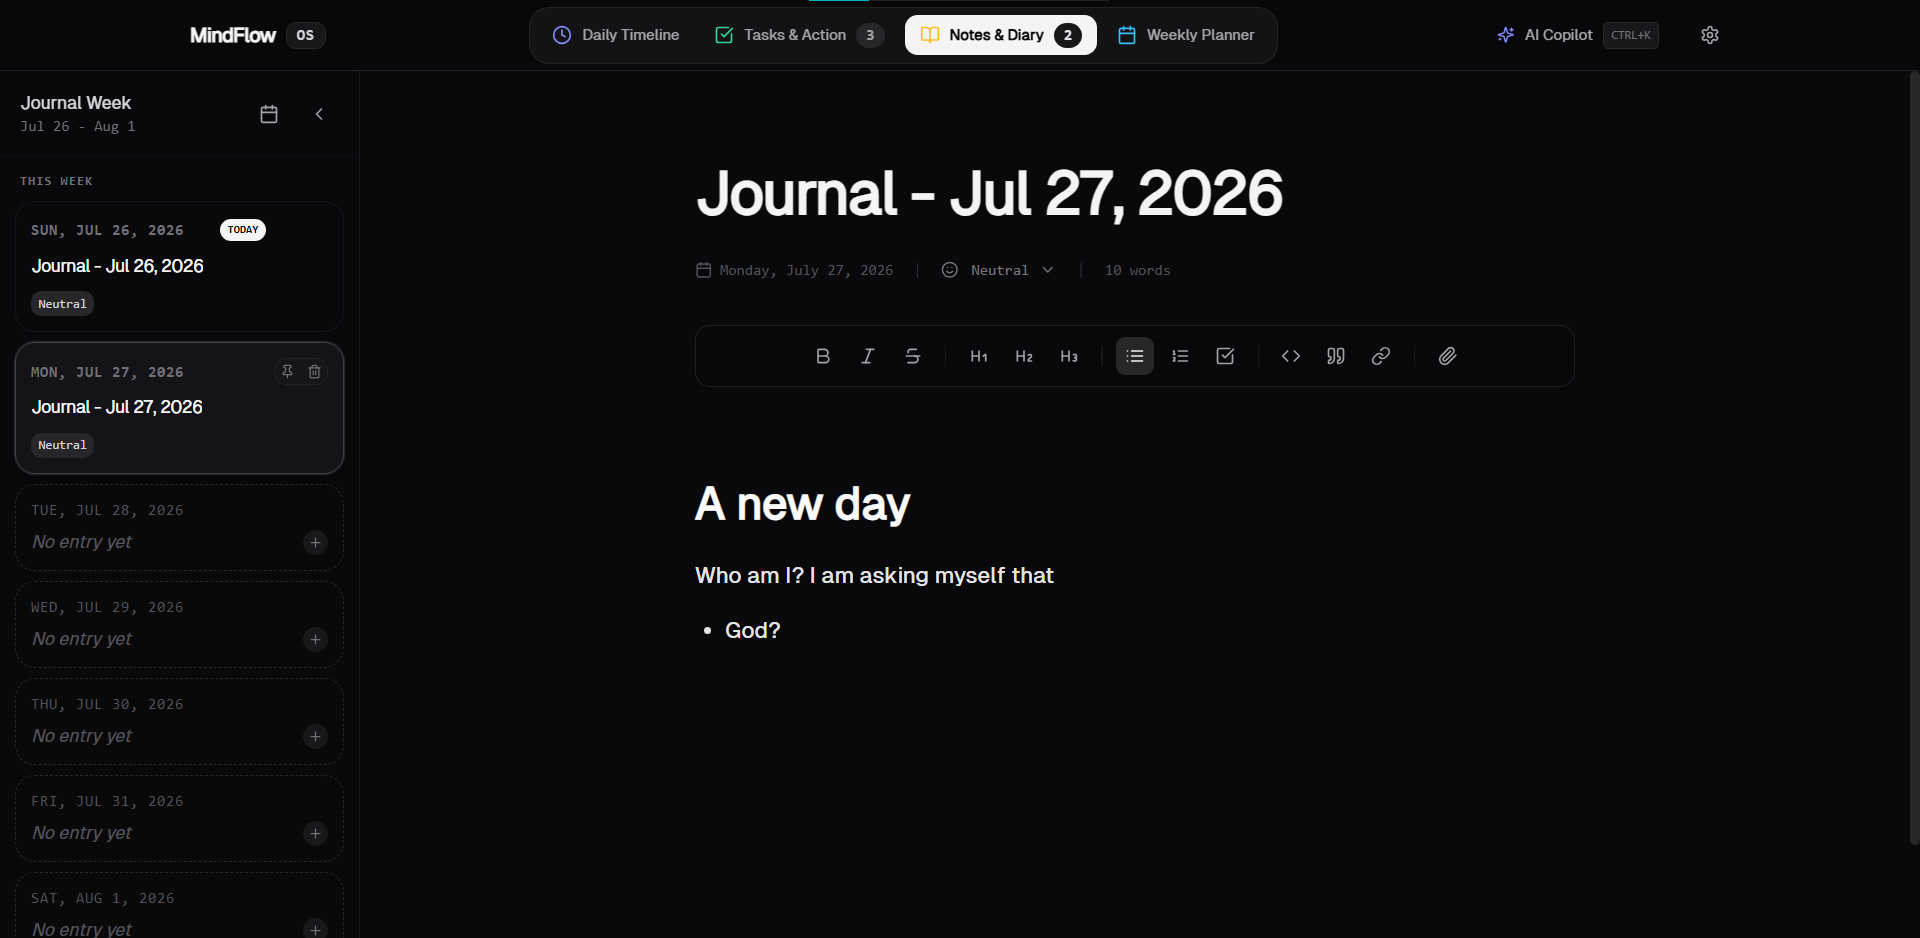
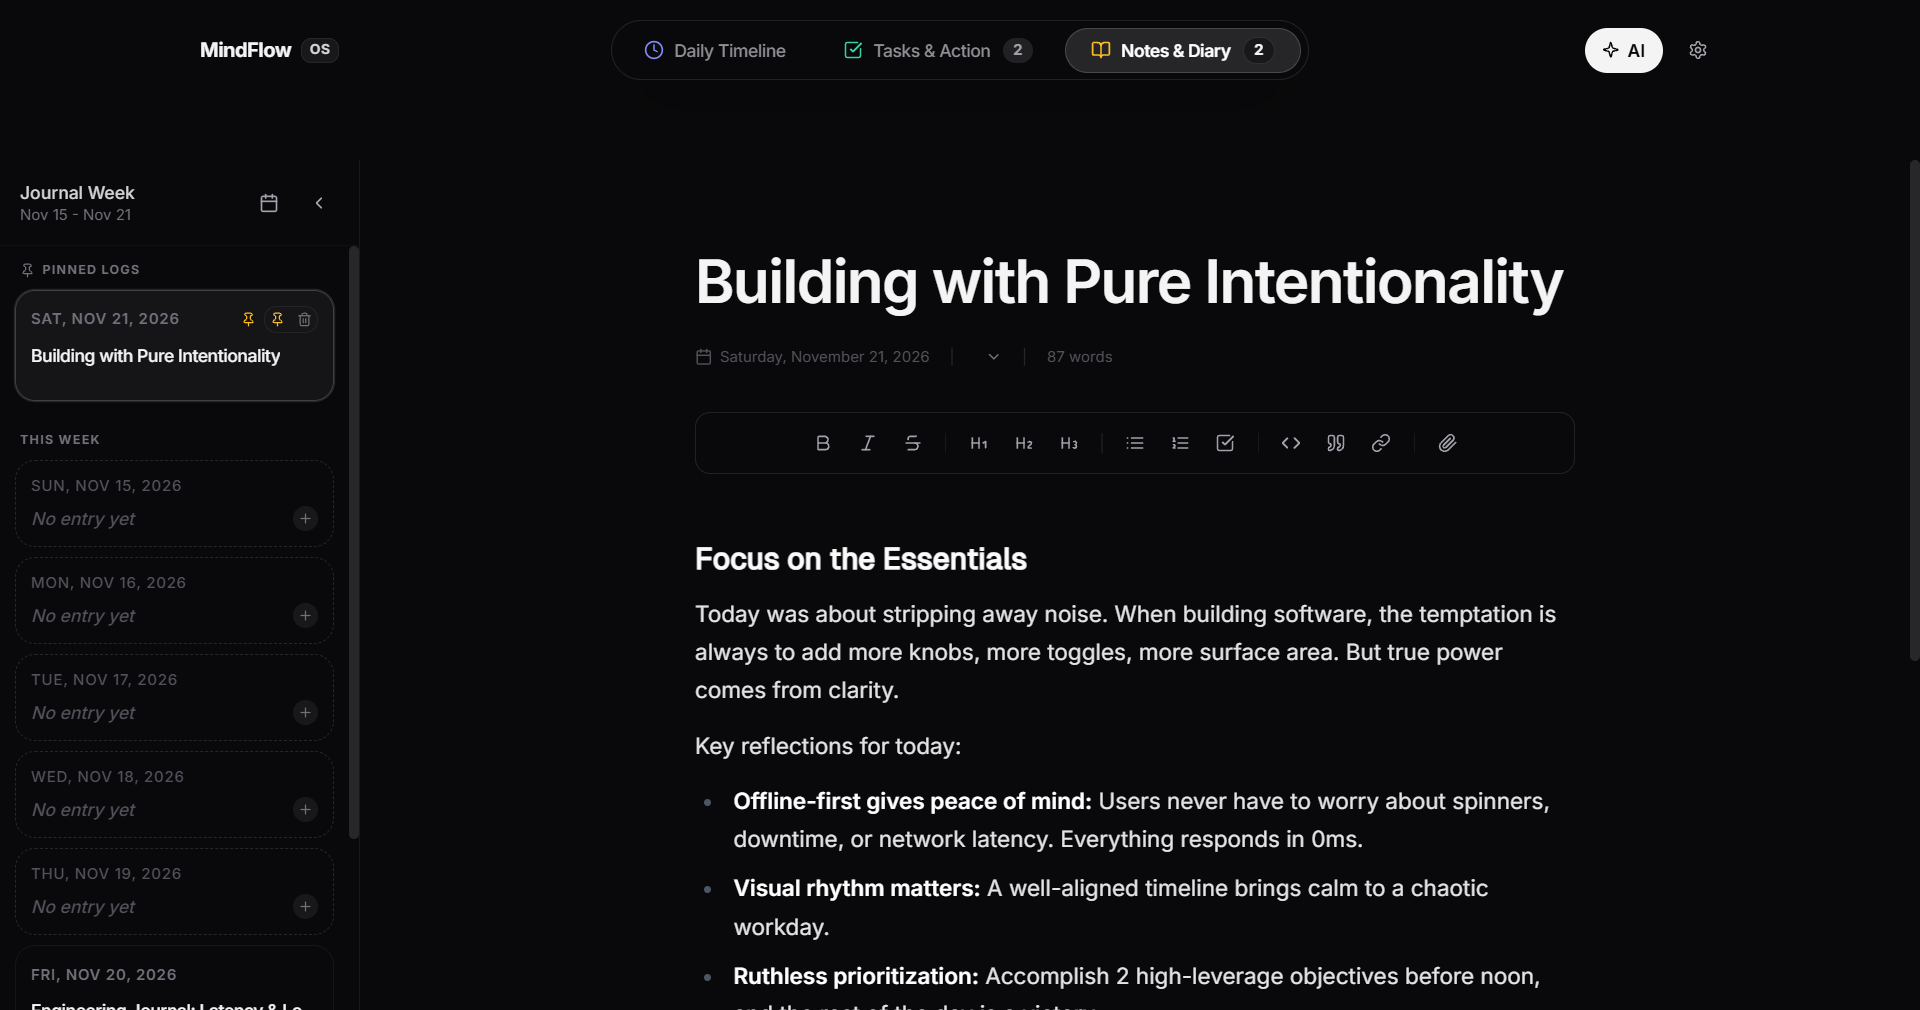
docs: update screenshots with realistic sample data and latest UI

diff --git a/src/services/storage.ts b/src/services/storage.ts
@@ -16,31 +16,114 @@ const DEFAULT_SETTINGS: AppSettings = {
   enableAiAutoEdit: true,
 };
 
-// Single clean minimalist initial task
+// Clean, professional sample tasks
 const INITIAL_TASKS: Task[] = [
   {
-    id: 'task-clean-1',
-    title: 'Focus on one important objective today',
-    description: 'Keep things peaceful, steady, and intentional.',
+    id: 'task-sample-1',
+    title: 'Review Q4 product roadmap & sync with engineering team',
+    description: 'Align with design on badge contrast tokens and ensure offline sync specs are finalized.',
     category: 'Work',
-    priority: 'medium',
+    priority: 'high',
     status: 'todo',
     scheduledDay: 'Mon',
+    time: '08:00 AM',
+    durationHours: 1,
+    attachments: [{ id: 'att-1', type: 'file', url: '#', name: 'Roadmap_Spec_v2.pdf', size: 2400000, createdAt: new Date().toISOString() }],
+    createdAt: new Date().toISOString(),
+  },
+  {
+    id: 'task-sample-2',
+    title: 'Deep work: Implement zero-knowledge encryption pipeline for local backups',
+    description: 'AES-GCM encryption with Argon2 key derivation. Zero plaintext leaks to disk.',
+    category: 'Work',
+    priority: 'urgent',
+    status: 'todo',
+    scheduledDay: 'Mon',
+    time: '09:00 AM',
+    durationHours: 1,
+    attachments: [],
+    createdAt: new Date().toISOString(),
+  },
+  {
+    id: 'task-sample-3',
+    title: 'Founder pitch deck review with lead angel investors and technical advisors for Seed Round extension',
+    description: 'Prepare 10-slide deck focusing on user retention, offline architecture, and developer adoption metrics.',
+    category: 'Ideas',
+    priority: 'high',
+    status: 'todo',
+    scheduledDay: 'Mon',
+    time: '10:00 AM',
+    durationHours: 1,
+    attachments: [{ id: 'att-2', type: 'file', url: '#', name: 'Seed_Deck_Nov2026.pdf', size: 8100000, createdAt: new Date().toISOString() }],
+    createdAt: new Date().toISOString(),
+  },
+  {
+    id: 'task-sample-4',
+    title: 'Architecture review: Optimize SQLite query planner and reduce cold start time',
+    description: 'Ensure vacuuming and index lookups stay under 12ms even on 100k+ records.',
+    category: 'Work',
+    priority: 'medium',
+    status: 'half_completed',
+    scheduledDay: 'Mon',
+    time: '11:00 AM',
+    durationHours: 1,
+    attachments: [],
+    createdAt: new Date().toISOString(),
+  },
+  {
+    id: 'task-sample-5',
+    title: "Read Chapter 4 of 'Designing Data-Intensive Applications' on stream processing",
+    description: 'Focus on idempotent message processing and partition rebalancing.',
+    category: 'Learning',
+    priority: 'low',
+    status: 'todo',
+    scheduledDay: 'Mon',
+    time: '02:00 PM',
+    durationHours: 1,
+    attachments: [],
+    createdAt: new Date().toISOString(),
+  },
+  {
+    id: 'task-sample-6',
+    title: 'Review and merge pull requests for release candidate v1.2.0',
+    description: 'All automated CI tests passed on Ubuntu, macOS, and Windows runners.',
+    category: 'Work',
+    priority: 'high',
+    status: 'completed',
+    scheduledDay: 'Mon',
+    time: '04:00 PM',
+    durationHours: 1,
+    attachments: [],
+    createdAt: new Date().toISOString(),
+  },
+  {
+    id: 'task-sample-7',
+    title: '5km evening run & mobility recovery routine',
+    description: 'Pace: 5:15/km. Great energy today.',
+    category: 'Health',
+    priority: 'medium',
+    status: 'completed',
+    scheduledDay: 'Mon',
+    time: '05:30 PM',
+    durationHours: 1,
+    attachments: [],
     createdAt: new Date().toISOString(),
   },
 ];
 
-// Single clean minimalist initial reflection note
+// Clean, professional sample reflection note
 const INITIAL_DIARY: DiaryEntry[] = [
   {
-    id: 'diary-clean-1',
+    id: 'diary-sample-1',
     date: new Date().toISOString().split('T')[0],
-    title: 'A quiet space to think and reflect',
-    content: 'Writing clears the mind. Capture simple reflections, daily progress, or notes here without distractions.',
-    mood: 'calm',
-    tags: ['Reflection'],
+    title: 'Building with Pure Intentionality',
+    content: '<h3>Focus on the Essentials</h3><p>Today was about stripping away noise. When building software, the temptation is always to add more knobs, more toggles, more surface area. But true power comes from clarity.</p><p>Key reflections for today:</p><ul><li><strong>Offline-first gives peace of mind:</strong> Users never have to worry about spinners, downtime, or network latency. Everything responds in 0ms.</li><li><strong>Visual rhythm matters:</strong> A well-aligned timeline brings calm to a chaotic workday.</li><li><strong>Ruthless prioritization:</strong> Accomplish 2 high-leverage objectives before noon, and the rest of the day is a victory.</li></ul><p>Steady progress beats frantic effort every single time.</p>',
+    mood: 'focused',
+    tags: ['Product', 'Focus', 'Mindset'],
+    attachments: [],
     createdAt: new Date().toISOString(),
     updatedAt: new Date().toISOString(),
+    isPinned: true,
   },
 ];
 
